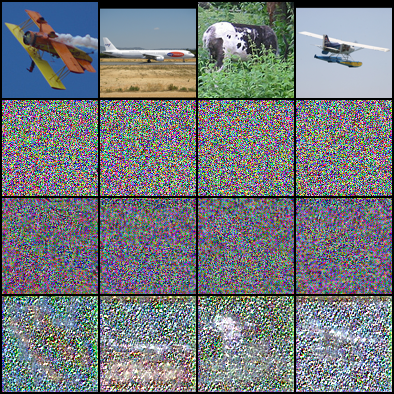
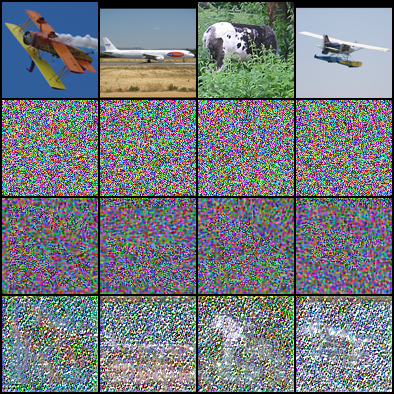
read_me_v4

diff --git a/RIC/Server.py b/RIC/Server.py
@@ -357,11 +357,11 @@ def train(train_loader, beta, learning_rate, batch_size, start_epoch=0, num_epoc
     
     color_nets = color
 
-    net_rev = Net(base_project_path, residual_en, residual_de, lambda_net, small, compress, encrypt, color_nets).to(device)
+    net_rev = Net(base_project_path, residual_en, residual_de, lambda_net, compress, encrypt).to(device)
     if small:
-        net_hide = Netw_small(color_nets, residual_en,residual_de,lambda_net).to(device)
+        net_hide = Netw_small(residual_en,residual_de,lambda_net).to(device)
     else:
-        net_hide = Netw_regular(color_nets, residual_en,residual_de,lambda_net).to(device)
+        net_hide = Netw_regular(residual_en,residual_de,lambda_net).to(device)
     
     if compress:
         epoch = 320
@@ -369,7 +369,7 @@ def train(train_loader, beta, learning_rate, batch_size, start_epoch=0, num_epoc
         B = 8
         N = B*B
         model_compress = Adaptive_CS_compress(base_project_path, sal_cs, color, N_p, B, 1, torch.zeros(N, N))
-        model_decompress = Adaptive_CS_decompress(base_project_path, N_p, B, 1, torch.zeros(N, N))
+        model_decompress = Adaptive_CS_decompress(base_project_path, color, N_p, B, 1, torch.zeros(N, N))
         model_compress = torch.nn.DataParallel(model_compress).to(device)
         model_decompress = torch.nn.DataParallel(model_decompress).to(device)
         model_dir = '%s/layer_%d_block_%d' % (os.path.join(base_project_path,'compress_Data/model'), N_p, B)
@@ -410,17 +410,23 @@ def train(train_loader, beta, learning_rate, batch_size, start_epoch=0, num_epoc
                 ###change to greyscale end ###
                 train_secrets_original = train_secrets_gs
             
-            mix_img = net_hide(train_secrets_original, secret_sal, train_covers, train=True)
+            mix_img, share = net_hide(train_secrets_original, secret_sal, train_covers, train=True)
             if compress:
                 x_2_compressed=[]
                 x_2 = mix_img
                 for i in range(x_2.shape[0]):
+                    if share is not None:
+                        # Extract the single saliency map for the current image
+                        share_single = share[i:i+1]
+                    else:
+                        share_single = None
                     x_2_single = x_2[i:i+1]
                     PhiT_Phi_basic, PhiT_y_basic, x_uv_downsampled, L, shape_info = model_compress(
                     x_2_single, 
                     int(np.ceil(0.01 * N)),
                     0.5,
                     0.01,
+                    share_single
                     )   
                     x_2_single_compressed=[PhiT_Phi_basic, PhiT_y_basic, x_uv_downsampled, L,shape_info]
                     x_2_compressed.append(x_2_single_compressed)
@@ -437,7 +443,7 @@ def train(train_loader, beta, learning_rate, batch_size, start_epoch=0, num_epoc
                 mix_img = x_2
             #print(f"DEBUG: Client x_2 0 after compress: {x_2[0]}")
 
-            _, recover_secret = net_rev(mix_img, train_covers, labels, None, train=True)
+            _, recover_secret, _, _ , _ = net_rev(mix_img, train_covers, labels, None, train=True)
             
             train_loss, train_loss_secret, attloss, loss_cover, ssim_loss = attack1_loss(recover_secret,mix_img, train_secrets_original,train_covers,beta,labels)
 
@@ -448,8 +454,7 @@ def train(train_loader, beta, learning_rate, batch_size, start_epoch=0, num_epoc
             train_losses.append(train_loss.item())
 
             # Prints mini-batch losses - use if needed
-            '''if idx%100==0:
-            print('Training: Batch {0}/{1}. Loss of {2:.4f},secret loss of {3:.4f}, attack1_loss of {4:.4f}, loss_cover {5:.5f}, ssim_loss: {6:.4f}'.format(idx+1, len(train_loader), train_loss.data,  train_loss_secret.data,attloss.data,loss_cover,ssim_loss))'''
+            print('Training: Batch {0}/{1}. Loss of {2:.4f},secret loss of {3:.4f}, attack1_loss of {4:.4f}, loss_cover {5:.5f}, ssim_loss: {6:.4f}'.format(idx+1, len(train_loader), train_loss.data,  train_loss_secret.data,attloss.data,loss_cover,ssim_loss))
 
         modelsavepath = os.path.join(output_dir,'Epoch_{}_hide'.format(epoch))
         save_checkpoint({

diff --git a/RIC/run_pipeline2.py b/RIC/run_pipeline2.py
@@ -254,7 +254,7 @@ if __name__ == "__main__":
     share_guide = True
     
     # Run the full pipeline (train and test) with the initial configuration
-    run_pipeline_for_config(sal_for_he, compress, sal_for_cs, encrypt, share_guide, train_mode=False)
+    run_pipeline_for_config(sal_for_he, compress, sal_for_cs, encrypt, share_guide, train_mode=True)
 '''
     #pipe share sal
     sal_for_he = True

diff --git a/README.md b/README.md
@@ -218,13 +218,37 @@ You can now also look at the path specified in the Server script output earlier 
 
 
 ## Example Train run
-### Automatic
-in run_pipeline2.py at your paths in line 18 and 19:
-```
-    BASE_PROJECT_PATH = "/your/path/here"
-    CLIENT_BASE_PATH = '/your/path/here' 
-```
-the path should lead to the local save point of this github directory.
-### Manual
+Check the number of epochs int he server.py script (here it's 3 for testing purposes):
 
+```
+    if train_mode:
+        train(train_loader, beta, learning_rate, batch_size, 0, 3)
+```
+run the Server.py with desired arguments to train for in train mode:
+```
+    /usr/bin/python3 "/home/yvonne/Documents/CNN_compact/RIC/Server.py" --base_project_path="/home/yvonne/Documents/CNN_compact/" --train --encrypt --sal_for_he
+```
 
+check your choosen arguments again in the output:
+```
+  Mode: Train
+  Project's path: /home/yvonne/Documents/CNN_compact/
+  Compression: No
+  Compression guided by: Feature extraction
+  Encryption: Yes
+  Encryption guided by: Saliency map
+  Shared Guidance: No
+```
+
+take note of the output directory:
+```
+    Output directory (Old files of the same flags will be overwritten!): /home/yvonne/Documents/CNN_compact/output/experiments/svhn_encrypted_saliency_uncompressed_feature extraction_seperate_color/
+```
+
+the generated weights will be saved there in model_train_epochs. at the end of training the latest trained model will be split and saved to the model subfolder. Next time in testing, the newly trianed weights will be used automatically. 
+
+During training you can monitor the loss per batch:
+```
+    Training: Batch 1/1145. Loss of -1.9469,secret loss of 0.2198, attack1_loss of -4.1449, loss_cover 0.01306, ssim_loss: -0.0043
+```
+But this printing makes the training process take even longer! comment it out in the code of Server.py line 457, if not needed.
